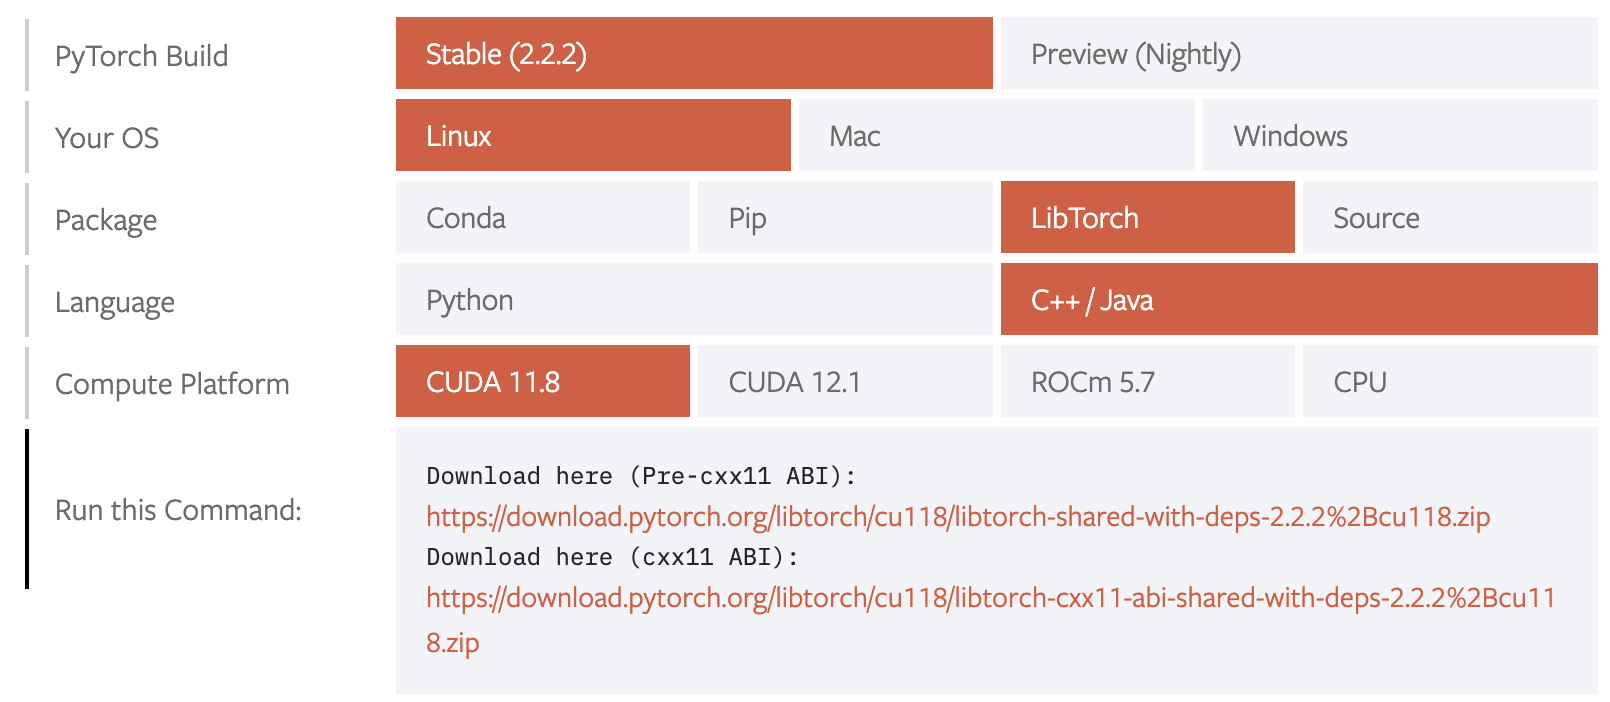
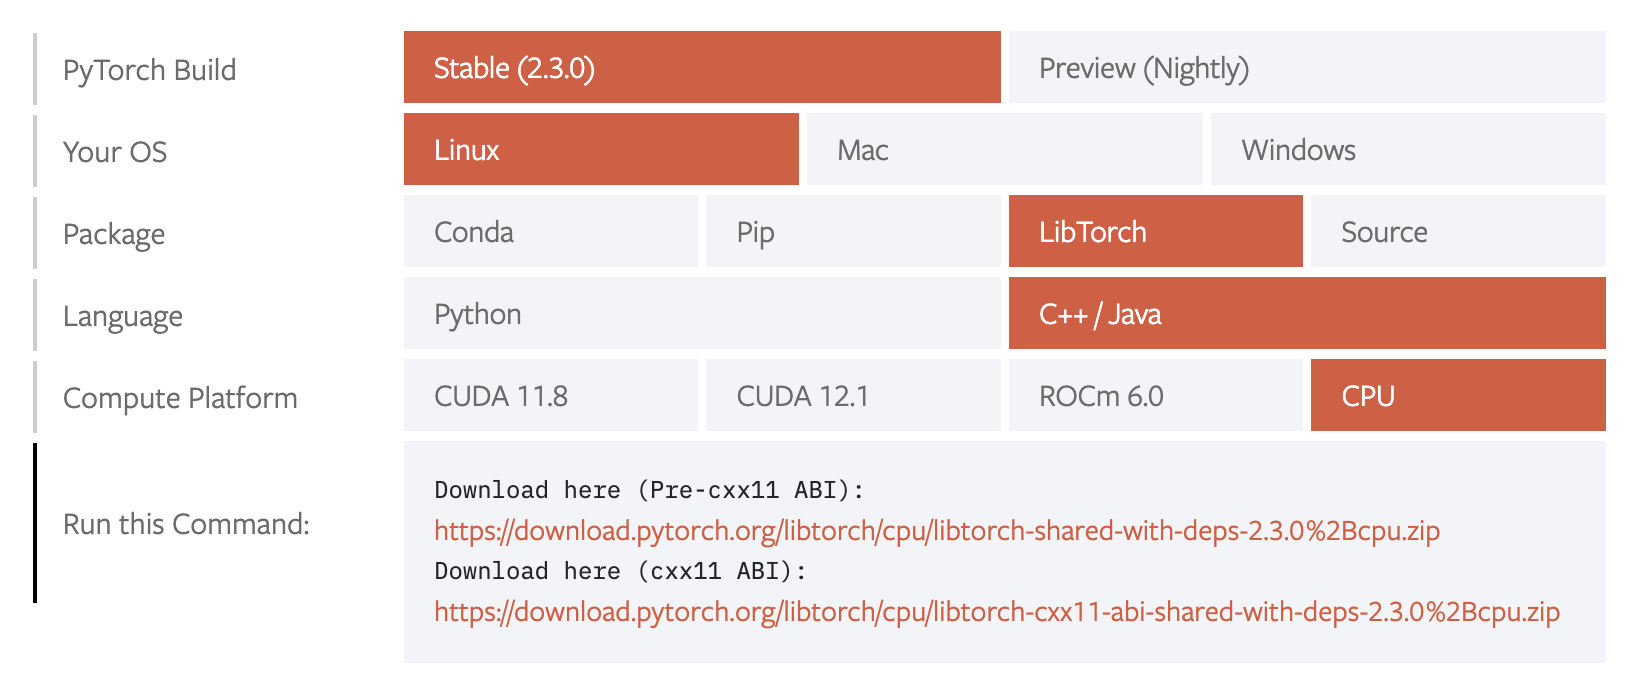
Update documentation for 2.3.0

diff --git a/docs/build.rst b/docs/build.rst
@@ -7,39 +7,41 @@ The ktorch library has been built on Linux and MacOS; it has not been tested on 
 (Windows is beginning to get more support with `Microsoft becoming the maintainer of the Windows version in 2020 <https://pytorch.org/blog/microsoft-becomes-maintainer-of-the-windows-version-of-pytorch/>`_.)
 
 The first step is to `download the relevant zip file from PyTorch <https://pytorch.org/get-started/locally/>`_.
-The k interface is built with the latest version of PyTorch as of Apr 2024, labeled ``Stable(2.2.2)``.
+The k interface is built with the latest version of PyTorch as of Apr 2024, labeled ``Stable(2.3.0)``.
 
 For Linux, the zip file contains all the necessary libraries and include files; there is no need to install CUDA or Intel MKL as these components are included.
 The zip file is large, around 2 gigabytes for versions which include libraries for working with GPU's and around 200 megabytes for CPU-only.
 Each platform has additional choices for CPU-only/GPU versions (more :ref:`here <abi>` on pre c++11 and post c++11 ABI versions).
 
-For MacOS, the libtorch zip file distributed by PyTorch is for Intel CPU-only;
-it is also  possible to compile the libtorch libraries to incude a CUDA setup on Mac
-or to use the new M1/M2 chips with
-`MPS (Metal Performance Shaders) <https://pytorch.org/blog/introducing-accelerated-pytorch-training-on-mac/>`_.
-
+For MacOS, the libtorch zip file distributed by PyTorch is for Apple's M1/M2/M3 chips.
+It is also  possible to compile the libtorch libraries to incude a CUDA setup on Mac or use Intel CPU.
 See :ref:`this section <libtorch>` on how build the PyTorch c++ libraries from source before building the k interface.
 
-Below is a brief  summary of retrieval steps for a Linux machine with Nvidia GPU(s):
+Below is a brief summary of retrieval steps for a Linux machine with Nvidia GPU(s):
 
 .. figure:: linux.cuda.png
    :scale: 40 %
    :alt: libtorch.zip files for Linux and CUDA 11.8
    :target: https://pytorch.org/get-started/locally/
 
-Download and unzip the file for CUDA 11.8 with the pre-c++11  ABI:
+Download and unzip the file for CUDA 11.8 with the pre-c++11 ABI:
 
 ::
 
-   > wget -q https://download.pytorch.org/libtorch/cu117/libtorch-shared-with-deps-2.0.1%2Bcu117.zip
-   > ls -lh libtorch-shared-with-deps-2.2.2+cu118.zip 
-   -rw-rw-r-- 1 t t 2.4G Mar 26 18:33 libtorch-shared-with-deps-2.2.2+cu118.zip
+   > wget -q https://download.pytorch.org/libtorch/cu118/libtorch-shared-with-deps-2.3.0%2Bcu118.zip
+   > ls -lh libtorch-shared-with-deps-2.3.0+cu118.zip 
+   -rw-rw-r-- 1 t t 2.5G Apr 23 10:12 libtorch-shared-with-deps-2.3.0+cu118.zip
 
-   > unzip libtorch-shared-with-deps-2.2.2+cu118.zip 
-   Archive:  libtorch-shared-with-deps-2.2.2+cu118.zip
+   > unzip libtorch-shared-with-deps-2.3.0+cu118.zip
+   Archive:  libtorch-shared-with-deps-2.3.0+cu118.zip
       creating: libtorch/
       creating: libtorch/lib/
-      ..
+     inflating: libtorch/lib/libasmjit.a  
+     inflating: libtorch/lib/libbackend_with_compiler.so  
+     inflating: libtorch/lib/libbenchmark.a  
+     inflating: libtorch/lib/libbenchmark_main.a  
+     inflating: libtorch/lib/libc10_cuda.so  
+     ..
 
 Download the ktorch source code via git clone:
 
@@ -74,26 +76,26 @@ Assuming the libtorch libraries are in ~/libtorch and the ktorch source in ~/kto
 PyTorch zip files
 *****************
 
-The libtorch.zip files from PyTorch are saved by version: when version 2.0.1 is no longer the latest version, it is still possible to retrieve the version-specific files:
+The libtorch.zip files from PyTorch are saved by version: when version 2.3.0 is no longer the latest version, it is still possible to retrieve the version-specific files:
 
 - Linux CPU
-   - https://download.pytorch.org/libtorch/cpu/libtorch-shared-with-deps-2.0.1%2Bcpu.zip
-   - https://download.pytorch.org/libtorch/cpu/libtorch-cxx11-abi-shared-with-deps-2.0.1%2Bcpu.zip
-
-- Linux CUDA 11.7
-   - https://download.pytorch.org/libtorch/cu117/libtorch-shared-with-deps-2.0.1%2Bcu117.zip
-   - https://download.pytorch.org/libtorch/cu117/libtorch-cxx11-abi-shared-with-deps-2.0.1%2Bcu117.zip
+   - https://download.pytorch.org/libtorch/cpu/libtorch-shared-with-deps-2.3.0%2Bcpu.zip
+   - https://download.pytorch.org/libtorch/cpu/libtorch-cxx11-abi-shared-with-deps-2.3.0%2Bcpu.zip
 
 - Linux CUDA 11.8
-   - https://download.pytorch.org/libtorch/cu118/libtorch-shared-with-deps-2.0.1%2Bcu118.zip
-   - https://download.pytorch.org/libtorch/cu118/libtorch-cxx11-abi-shared-with-deps-2.0.1%2Bcu118.zip
+   - https://download.pytorch.org/libtorch/cu118/libtorch-shared-with-deps-2.3.0%2Bcu118.zip
+   - https://download.pytorch.org/libtorch/cu118/libtorch-cxx11-abi-shared-with-deps-2.3.0%2Bcu118.zip
 
-- MacOS CPU
-   - https://download.pytorch.org/libtorch/cpu/libtorch-macos-2.0.1.zip
+- Linux CUDA 12.1
+   - https://download.pytorch.org/libtorch/cu121/libtorch-shared-with-deps-2.3.0%2Bcu121.zip
+   - https://download.pytorch.org/libtorch/cu121/libtorch-cxx11-abi-shared-with-deps-2.3.0%2Bcu121.zip
+
+- MacOS M1/M2/M3
+   - https://download.pytorch.org/libtorch/cpu/libtorch-macos-arm64-2.3.0.zip
 
 - Release Notes
    - https://github.com/pytorch/pytorch/releases
-   - https://github.com/pytorch/pytorch/releases/tag/v2.0.1
+   - https://github.com/pytorch/pytorch/releases/tag/v2.3.0
 
 - Source
    - https://github.com/pytorch/pytorch/archive/refs/tags/v2.0.1.zip
@@ -131,16 +133,15 @@ In Linux, there's a choice of ABI (application binary interface). Changes in the
 `a newer ABI <https://developers.redhat.com/blog/2015/02/05/gcc5-and-the-c11-abi/>`_.  The supplied libtorch zip files from PyTorch come in two versions,
 one for the ABI prior to the changes for the C++11 standard, and one with the new ABI.
 
-For example, for Linux, version 1.13.0, with support for CUDA 11.6, the zip files are listed as:
+For example, for Linux, version 2.3.0, with support for CUDA 11.8, the zip files are listed as:
 
 ::
 
    Download here (Pre-cxx11 ABI):
-   https://download.pytorch.org/libtorch/cu116/libtorch-shared-with-deps-1.13.0%2Bcu116.zip
-
+   https://download.pytorch.org/libtorch/cu118/libtorch-shared-with-deps-2.3.0%2Bcu118.zip
 
    Download here (cxx11 ABI):
-   https://download.pytorch.org/libtorch/cu116/libtorch-cxx11-abi-shared-with-deps-1.13.0%2Bcu116.zip
+   https://download.pytorch.org/libtorch/cu118/libtorch-cxx11-abi-shared-with-deps-2.3.0%2Bcu118.zip
 
 
 
@@ -181,19 +182,21 @@ Build libtorch from source
 To customize the PyTorch c++ libraries or to build to a different setup than supplied by PyTorch,
 it is also possible to build the libraries from source.
 
-For a mac with the new M2 chip and `MPS (Metal Performance Shaders) <https://pytorch.org/blog/introducing-accelerated-pytorch-training-on-mac/>`_,
-installing some prerequisites:
+For a mac with an Intel chip,
+since `PyTorch no longer distributes binaries for x86_64 <https://dev-discuss.pytorch.org/t/pytorch-macos-x86-builds-deprecation-starting-january-2024/1690>`_  it's necessary to build libtorch from source.
+
+Installing some prerequisites for macOS:
 
 ::
 
    brew install cmake
    pip install pyyaml
 
-Then download the source code for PyTorch as of release ``2.2.2``:
+Then download the source code for PyTorch as of release ``2.3.0``:
 
 ::
 
-   > git clone -b v2.2.2 --recurse-submodule https://github.com/pytorch/pytorch.git
+   > git clone -b v2.3.0 --recurse-submodule https://github.com/pytorch/pytorch.git
 
    > mkdir pytorch-build
    > cd pytorch-build
@@ -225,15 +228,15 @@ First step, get the CPU-only version of libtorch ``2.2.2`` for MacOS:
 ::
 
    > cd ~
-   > wget -q https://download.pytorch.org/libtorch/cpu/libtorch-macos-2.0.1.zip
+   > wget -q https://download.pytorch.org/libtorch/cpu/libtorch-macos-arm64-2.3.0.zip
 
-   > ls -lh libtorch-macos-2.0.1.zip 
-   -rw-r--r--  1 t  staff   160M May  5 09:44 libtorch-macos-2.0.1.zip
+   > ls -lh libtorch-macos-arm64-2.3.0.zip
+   -rw-r--r--  1 t  staff    57M Apr 23 10:09 libtorch-macos-arm64-2.3.0.zip
 
    > rm -rf ~/libtorch  # erase any previous version
 
-   > unzip libtorch-macos-2.0.1.zip 
-   Archive:  libtorch-macos-2.0.1.zip
+   > unzip libtorch-macos-arm64-2.3.0.zip
+   Archive:  libtorch-macos-arm64-2.3.0.zip
       creating: libtorch/
       creating: libtorch/bin/
      inflating: libtorch/build-hash     
